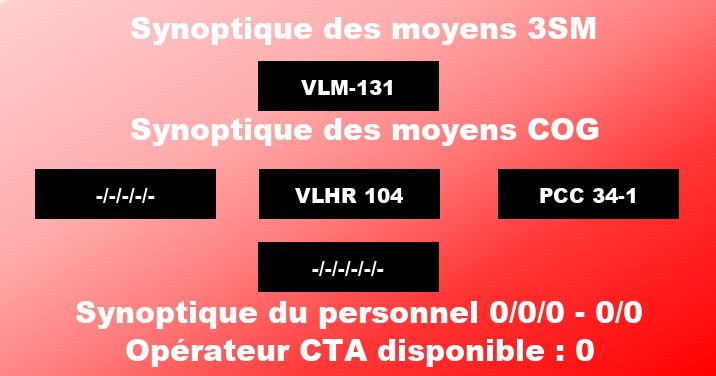
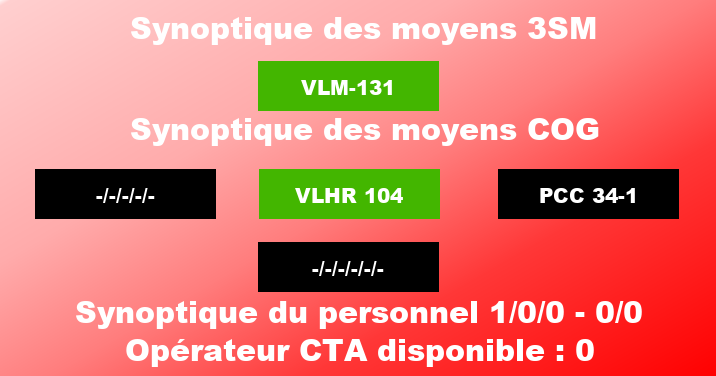
pacth syno

Changed region(s): [[0.338, 0.4388, 0.6145, 0.5851], [0.338, 0.1463, 0.6145, 0.2926], [0.676, 0.7899, 0.7067, 0.8777]]

diff --git a/Syno/Syno.py b/Syno/Syno.py
@@ -21,12 +21,12 @@ class Syno():
     
     def updatevhl(self, vhl):
         vhl = Vehicule(vhl)
-        if vhl.statut != 0 or vhl.statut != 1: return vhl.statut
+        if vhl.statut != 0 and vhl.statut != 1: return vhl.statut
         vhl.calculator = list(vhl.calculator.split(" "))    
         ii = 0
         for i in vhl.calculator : vhl.calculator[ii] = i.split("+"); ii += 1
         syno_vhl = [0, 0, 0, 0, 0, 0]
-        for i in calculator:
+        for i in vhl.calculator:
             for ii in i:
                 syno_vhl[vhl.calculator.index(i)] += self.syno[int(ii)]
 
@@ -35,18 +35,21 @@ class Syno():
 
         number_needed = eval(str(vhl.required))
         syno_required = list(vhl.required.split(" + "))
-        for i in range(syno_required) : syno_required[i] = int(syno_required[i])
+        for i in range(len(syno_required)) : syno_required[i] = int(syno_required[i])
         
         def get_powermax(syno):
             power_max = 0
             for i in syno_required :
                 if i != 0 : power_max = syno_required.index(i)
             return power_max
-               
+        print(get_powermax(syno_vhl) >= get_powermax(syno_required))
+        print(number_needed <= unitnumer)
         if get_powermax(syno_vhl) >= get_powermax(syno_required):
             if number_needed <= unitnumer:vhl.statut = 1
             else:vhl.statut = 0
         else:vhl.statut = 0
+
+        vhl.save()
 
     def updatevhls(self):
         for vhl in get_all_vehicule(): self.updatevhl(vhl[0])

diff --git a/db/function/Vehicule.py b/db/function/Vehicule.py
@@ -9,9 +9,11 @@ from db.files.data import *
 class Vehicule():
 
     def __init__(self, name):
-        print(f"SELECT * FROM `vhl` WHERE `véhicule`='{name}'")
         data = Querry(f"SELECT * FROM `vhl` WHERE `véhicule`='{name}'")
         #`id`, `statut`, `véhicule`, `cord`, `syno`, `required`
         id, self.statut, self.vehicule, self.cord, self.syno, self.required, self.calculator = data[0]
+    
+    def save(self):
+        data = Querry(f"UPDATE `vhl` SET `statut`={self.statut} WHERE `véhicule`='{self.vehicule}'")
 
 def get_all_vehicule(): return Querry("SELECT véhicule FROM vhl")
